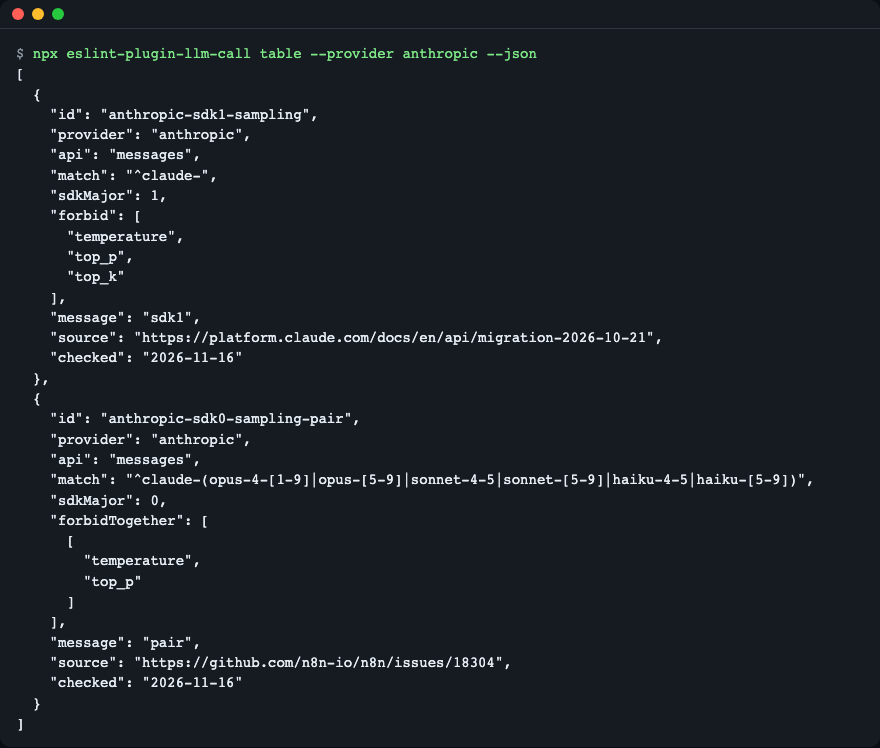
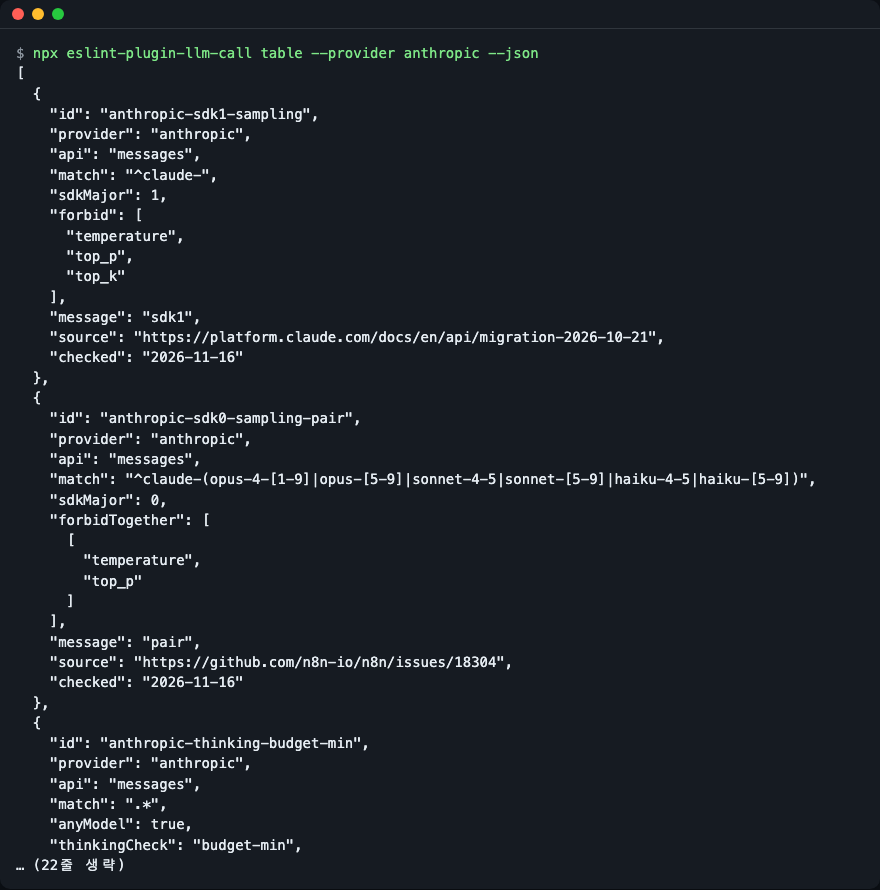
docs(readme): document anthropic-thinking-config rule
Update rule counts and the table screenshot, and add the 0.2.0 changelog entry.

Changed region(s): [[0.0307, 0.123, 0.9205, 0.7995], [0.0307, 0.8302, 0.583, 0.984], [0.0, 0.0, 0.6136, 0.0922]]

diff --git a/README.ko.md b/README.ko.md
@@ -11,7 +11,7 @@ OpenAI·Anthropic SDK 호출을 읽어서, TypeScript 는 통과시키지만 API
 
 ## 무엇을 더해 주나요
 
-- `chat.completions.create`, `responses.create`, Anthropic `messages.create` 의 인자를 검사하는 **규칙 4개**.
+- `chat.completions.create`, `responses.create`, Anthropic `messages.create` 의 인자를 검사하는 **규칙 5개**.
 - **출처가 붙은 모델 표.** [`src/data/models.json`](src/data/models.json) 의 행마다 출처 URL 과 확인 날짜가 있고, ESLint 설정에서 행을 추가·교체·끌 수 있습니다.
 - **의미가 확실할 때만 자동 수정.** `max_tokens` 를 `max_completion_tokens` / `max_output_tokens` 로 바꾸는 것은 autofix, 매개변수 삭제나 값 삽입은 제안(suggestion)만 합니다.
 - **모르면 침묵.** `process.env`, 함수 인자, import 값, 알 수 없는 전개에서 온 모델은 보고하지 않습니다.
@@ -23,6 +23,7 @@ OpenAI·Anthropic SDK 호출을 읽어서, TypeScript 는 통과시키지만 API
 | `llm-call/json-mode-needs-json-word` | 보이는 메시지에 "json" 이 없는 `response_format: { type: 'json_object' }` |
 | `llm-call/strict-schema-shape` | strict 인라인 JSON Schema: `additionalProperties: false` 누락, `required` 가 모든 속성을 담지 않음, 루트 `anyOf`, 미지원 키워드, 10단계 초과 중첩, 5000개 초과 속성 |
 | `llm-call/anthropic-require-max-tokens` | `max_tokens` 가 없는 Anthropic `messages.create` (제안만) |
+| `llm-call/anthropic-thinking-config` | 값이 리터럴일 때 API 가 400 으로 거부하는 Anthropic `messages.create` 의 `thinking` 설정: `budget_tokens` 가 1024 미만, Claude 4.7 이상에 `type: 'enabled'`, Claude 4.5 이하에 `type: 'adaptive'`. `budget_tokens >= max_tokens` 는 interleaved thinking 이 허용하므로 보고하지 않습니다. 표의 `anthropic-thinking-*` 행이며 `settings.llmCall.disable` 로 끌 수 있습니다. 0.2.0 에서 추가, `recommended` 에서 `error` 로 켜집니다(마이너 버전 변경: 실제로 400 이 나는 코드는 이제 lint 에서 실패합니다). |
 
 `no-unsupported-param` 이 지금 아는 것(2026-11-16 기준 스냅샷):
 
@@ -72,7 +73,7 @@ export default [
 ];
 ```
 
-`recommended` 는 규칙 4개를 모두 `error` 로 켭니다. 규칙을 직접 고르려면 `plugins: { 'llm-call': llmCall }` 를 등록하고 원하는 규칙만 적습니다.
+`recommended` 는 규칙 5개를 모두 `error` 로 켭니다. 규칙을 직접 고르려면 `plugins: { 'llm-call': llmCall }` 를 등록하고 원하는 규칙만 적습니다.
 
 묶은 tarball 을 새 프로젝트(ESLint 10.15.0)에 설치해 확인했습니다(`npm run smoke:pack`): `o4-mini` 에 `max_tokens` 가 있는 파일은 `llm-call/no-unsupported-param` 과 함께 종료 코드 1, 깨끗한 파일은 0 입니다.
 

diff --git a/README.md b/README.md
@@ -11,7 +11,7 @@ An ESLint plugin that reads your OpenAI and Anthropic SDK calls and flags parame
 
 ## What it adds
 
-- **Four rules** that check the arguments of `chat.completions.create`, `responses.create` and Anthropic `messages.create`.
+- **Five rules** that check the arguments of `chat.completions.create`, `responses.create` and Anthropic `messages.create`.
 - **A model table with sources.** Each row of [`src/data/models.json`](src/data/models.json) carries a source URL and a check date, and you can add, replace or switch off rows from your ESLint settings.
 - **Quick fixes only when the meaning is certain.** Renaming `max_tokens` to `max_completion_tokens` / `max_output_tokens` is an autofix; deleting a parameter or inserting a value is only a suggestion.
 - **Silence when unsure.** A model that comes from `process.env`, a function argument, an import or an unknown spread is never reported.
@@ -23,6 +23,7 @@ An ESLint plugin that reads your OpenAI and Anthropic SDK calls and flags parame
 | `llm-call/json-mode-needs-json-word` | `response_format: { type: 'json_object' }` with no "json" in the visible messages |
 | `llm-call/strict-schema-shape` | Strict inline JSON Schemas: missing `additionalProperties: false`, `required` not listing every property, root `anyOf`, unsupported keywords, nesting deeper than 10, more than 5000 properties |
 | `llm-call/anthropic-require-max-tokens` | Anthropic `messages.create` without `max_tokens` (suggestion only) |
+| `llm-call/anthropic-thinking-config` | Anthropic `messages.create` `thinking` settings the API rejects with a 400, when the values are literals: `budget_tokens` below 1024; `type: 'enabled'` on Claude 4.7 and later; `type: 'adaptive'` on Claude 4.5 and earlier. `budget_tokens >= max_tokens` is not reported (interleaved thinking allows it). Rows are `anthropic-thinking-*` in the table and can be switched off with `settings.llmCall.disable`. New in 0.2.0, on as `error` in `recommended` (a minor-version change: code that really gets a 400 will now fail lint). |
 
 What `no-unsupported-param` knows today (snapshot dated 2026-11-16):
 
@@ -72,7 +73,7 @@ export default [
 ];
 ```
 
-`recommended` turns all four rules on as `error`. To pick rules yourself, register `plugins: { 'llm-call': llmCall }` and list the rules you want.
+`recommended` turns all five rules on as `error`. To pick rules yourself, register `plugins: { 'llm-call': llmCall }` and list the rules you want.
 
 The packed tarball was verified in a fresh project with ESLint 10.15.0 (`npm run smoke:pack`): a file with `max_tokens` on `o4-mini` exits 1 with `llm-call/no-unsupported-param`, a clean file exits 0.
 

diff --git a/CHANGELOG.md b/CHANGELOG.md
@@ -5,6 +5,13 @@ The format follows [Keep a Changelog](https://keepachangelog.com/en/1.1.0/) and 
 
 ## [Unreleased]
 
+## [0.2.0] - 2026-11-16
+
+### Added
+- New rule `llm-call/anthropic-thinking-config`, **enabled as `error` in `recommended`**, so projects that really send these requests will now fail lint (hence a minor version). It reports Anthropic `messages.create` `thinking` settings that the API rejects with a 400, only when the values are literals: `budget_tokens` below 1024; `type: 'enabled'` on Claude 4.7 and later; `type: 'adaptive'` on Claude 4.5 and earlier. `budget_tokens >= max_tokens` is not reported (interleaved thinking). Dynamic values are never reported.
+- Three table rows `anthropic-thinking-budget-min`, `anthropic-thinking-enabled-47`, `anthropic-thinking-adaptive-45` (source and check date per row); switch them off with `settings.llmCall.disable`. Rows have a new optional `thinkingCheck` field, shown by the `table` command.
+- English and Korean messages for the new rule.
+
 ## [0.1.3] - 2026-11-16
 
 ### Fixed
